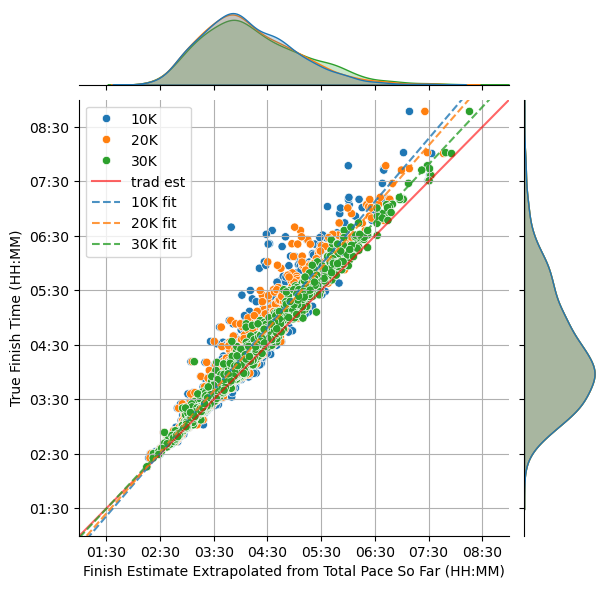
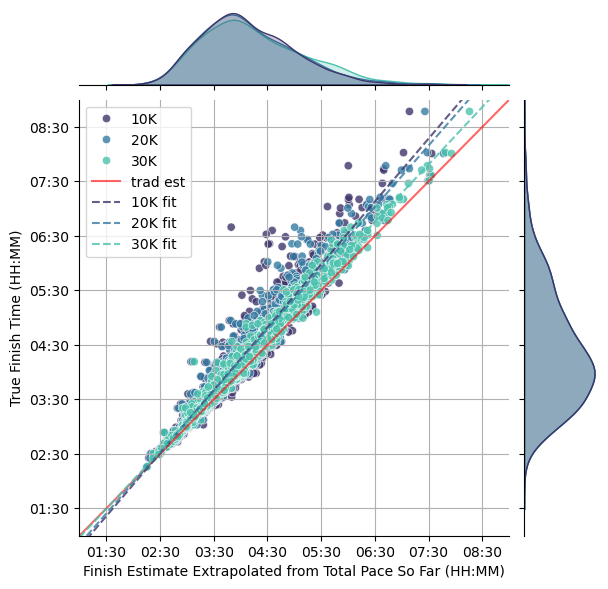
Update plots

diff --git a/plots.py b/plots.py
@@ -9,19 +9,26 @@ import matplotlib.pyplot as plt
 from utils import get_data, binning, int_to_str_time#, Union
 random.seed(2024)
 
-def get_plot_dist(races=["bos", "nyc", "chi"], yrs=[2022, 2023]):
+def get_plot_dist(races=["bos", "nyc", "chi",], yrs=[2022, 2023]):
     """Plot distribution of finish times for a list of races in specified years"""
     ticks = (60, 120, 180, 240, 300, 360, 420, 480, 540, 600)
     train_list = [(r, pd.read_csv(f"processed_data/full_data_{r}.csv")) for r in races]
+    cmap = {"bos": "darkgreen", "nyc": "blue", "chi": "crimson"}
 
-    for i, (lbl, train_data) in enumerate(train_list):
+    fig, ax = plt.subplots()
+    fig.set_figheight(8)
+    fig.set_figwidth(10)
+    for lbl, train_data in train_list:
         # minutes_dist = train_data[train_data["Year"].isin(yrs)]["Finish Net"] // 60
         minutes_dist = train_data["Finish Net"] // 60
         bins = binning(minutes_dist)
-        minutes_dist.hist(bins=bins, alpha=0.2, density=True, color=f"C{i}")
+        minutes_dist.hist(bins=bins, alpha=0.2, density=True, color=cmap[lbl], ax=ax)
         d2 = np.bincount(minutes_dist)
-        plt.plot(range(len(d2)), d2 / sum(d2), color=f"C{i}", linewidth=0.8, label=lbl)
+        ax.plot(range(len(d2)), d2 / sum(d2), color=cmap[lbl], linewidth=0.8, label=lbl)
+    
+    ax.set_facecolor(("orange", 0.05))
     labels = [int_to_str_time(60 * t, no_secs=True) for t in ticks]
+    
     plt.xticks(ticks, labels=labels)
     plt.xlim(ticks[1] - 15, ticks[-2] - 45)
     plt.xlabel(f"Time (HH:MM)")
@@ -32,10 +39,10 @@ def get_plot_dist(races=["bos", "nyc", "chi"], yrs=[2022, 2023]):
     plt.close()
 
 
-def get_extrap_scatter(racename="bos", sample_size=1000, yrs=[2022, 2023]):
+def get_extrap_scatter(racename="bos", sample_size=1000, yrs=[2022, 2023], mks=["10K", "20K", "30K"]):
     """Get scatter plot comparing extrapolated finish times to actual finish times for a given race"""
     train_data, _ = get_data(racename=racename, size_train=sample_size, train_lis=yrs)
-    table = train_data[train_data["dist"].isin(["10K", "20K", "30K"])].copy()
+    table = train_data[train_data["dist"].isin(mks)].copy()
     table[["total_pace", "finish"]] = table[["total_pace", "finish"]].apply(lambda x: (42195 / 60) / x)
     
     if racename == "bos":
@@ -43,7 +50,9 @@ def get_extrap_scatter(racename="bos", sample_size=1000, yrs=[2022, 2023]):
     else:
         ticks = (90, 150, 210, 270, 330, 390, 450, 510)
 
-    sns.jointplot(data=table, x="total_pace", y="finish", hue="dist")
+    sns.set_palette("mako", n_colors=len(mks)) #crest #mako
+    print(sns.color_palette())
+    sns.jointplot(data=table, x="total_pace", y="finish", hue="dist", alpha=0.8)# hueorder=["red", "blue", "green"])
     plt.plot([ticks[0] - 30, ticks[-1] + 30], [ticks[0] - 30, ticks[-1] + 30], color="red", label='trad est', alpha=0.6)
     plt.xlabel("Finish Estimate Extrapolated from Total Pace So Far (HH:MM)")
     plt.ylabel("True Finish Time (HH:MM)")
@@ -52,11 +61,11 @@ def get_extrap_scatter(racename="bos", sample_size=1000, yrs=[2022, 2023]):
     plt.xticks(ticks, labels=labels, rotation=0)
     plt.yticks(ticks, labels=labels, rotation=0)
 
-    for dist, color in [("10K", "blue"), ("20K", "orange"), ("30K", "green")]:
+    for i, dist in enumerate(mks):
         small_data = table[table["dist"] == dist]
         m, b = np.polyfit(small_data["total_pace"], small_data["finish"], 1)
         x = np.array([ticks[0] - 30, ticks[-1] + 30])
-        plt.plot(x, m*x + b, alpha=0.8, label=f"{dist} fit", linestyle="--")
+        plt.plot(x, m*x + b, alpha=0.8, label=f"{dist} fit", linestyle="--", color=sns.color_palette()[i])
 
     plt.xlim(ticks[0] - 30, ticks[-1] + 30)
     plt.ylim(ticks[0] - 30, ticks[-1] + 30)
@@ -68,7 +77,7 @@ def get_extrap_scatter(racename="bos", sample_size=1000, yrs=[2022, 2023]):
 if __name__ == "__main__":
     print('start')
     get_plot_dist()
-    get_extrap_scatter("bos")
+    get_extrap_scatter("bos") # , mks=["5K", "15K", "25K", "35K"])
     get_extrap_scatter("nyc")
     get_extrap_scatter("chi")
     print('fin')
